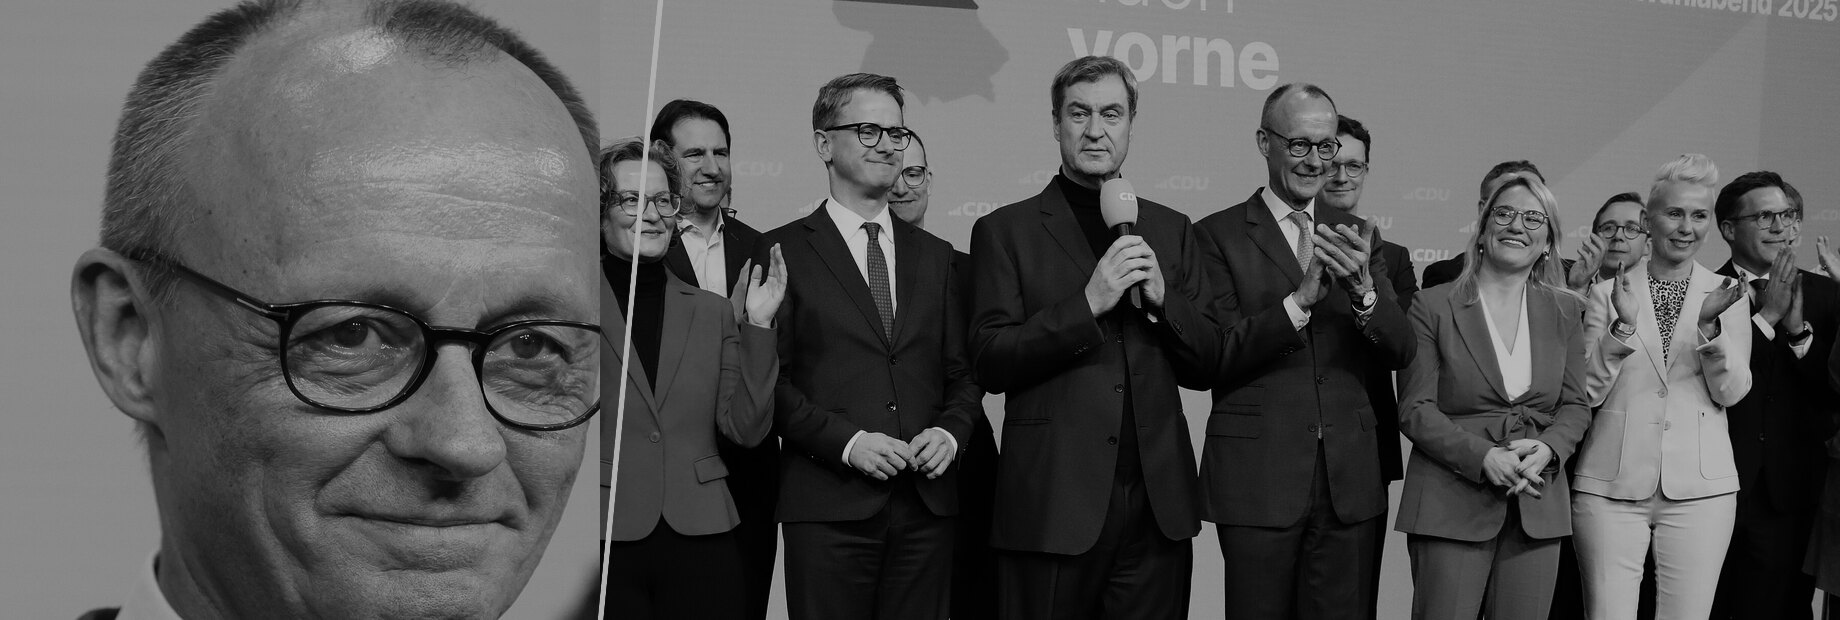
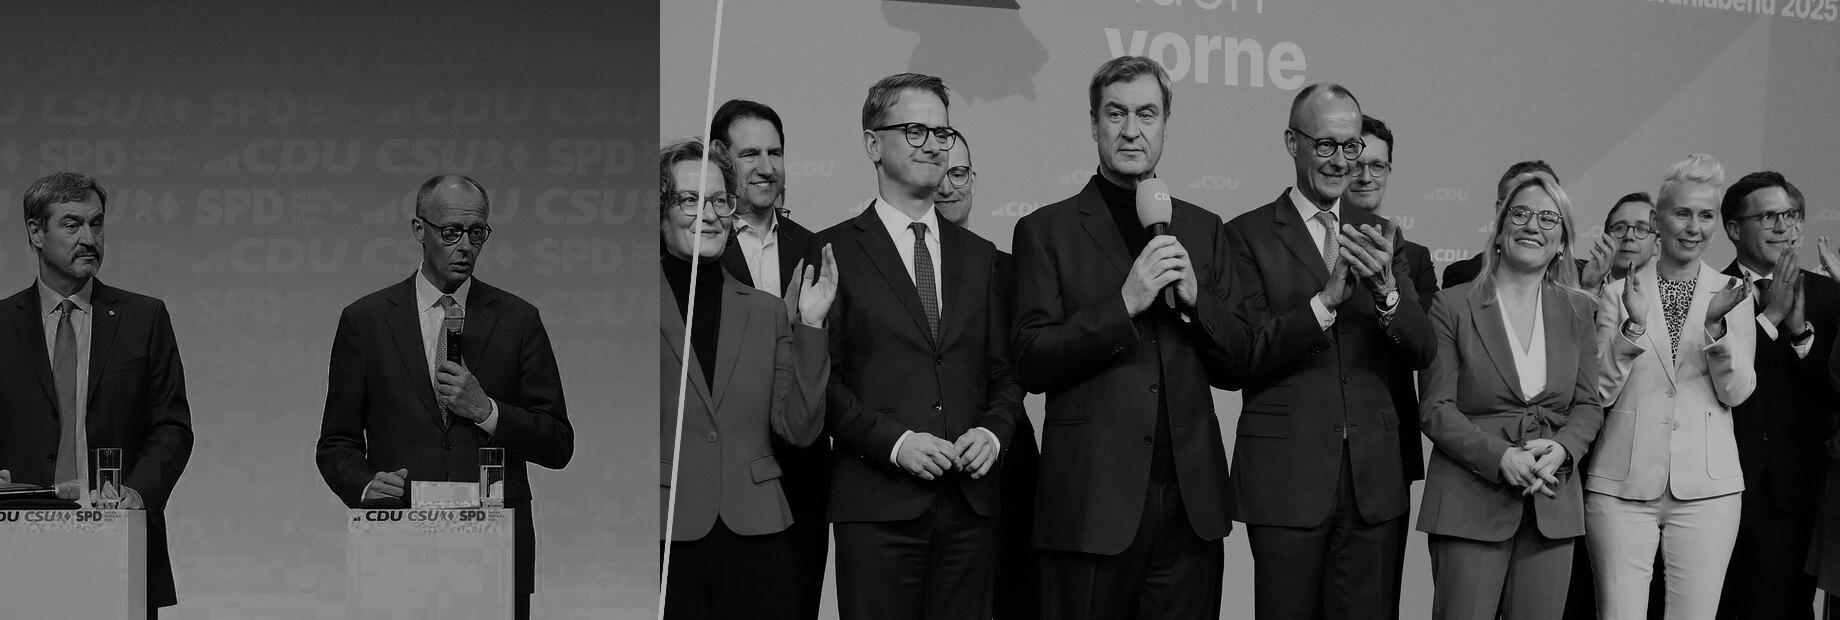
Union post: header montage with Merz at the lectern instead of close-up portrait

diff --git a/_pages/union-verluste-2026-de.md b/_pages/union-verluste-2026-de.md
@@ -24,7 +24,7 @@ Entwurf: Dieser Beitrag ist noch nicht veröffentlicht. Alle Texte sind Platzhal
 
 <figure class="ltw-header ltw-hero">
 
-<img src="/images/union26_header.jpg" style="object-position: left center" alt="Schwarz-weiß-Montage vom CDU-Wahlabend im Konrad-Adenauer-Haus am 23. Februar 2025: links Friedrich Merz im Porträt, rechts Markus Söder, Merz und weitere CDU-Politiker auf der Bühne"/>
+<img src="/images/union26_header.jpg" style="object-position: left center" alt="Schwarz-weiß-Montage: links Friedrich Merz und Markus Söder am Rednerpult bei der Vorstellung des Koalitionsvertrags im Mai 2025, rechts Söder, Merz und weitere CDU-Politiker auf der Bühne am Wahlabend im Februar 2025"/>
 
 <div class="ltw-hero-shade"></div>
 
@@ -38,7 +38,7 @@ Wohin die Union ihre Wähler verliert –<br>und wen sie zurückholen kann
 
 <p class="ltw-photo-credit">
 
-Fotos: Sandro Halank, Wikimedia Commons (<a href="https://commons.wikimedia.org/wiki/File:2025-02-23_Bundestagswahl_%E2%80%93_Wahlabend_CDU_by_Sandro_Halank%E2%80%93070.jpg">Porträt Friedrich Merz</a>, <a href="https://commons.wikimedia.org/wiki/File:2025-02-23_Bundestagswahl_%E2%80%93_Wahlabend_CDU_by_Sandro_Halank%E2%80%93013.jpg">Bühne</a>; <a href="https://creativecommons.org/licenses/by-sa/4.0/deed.de">CC BY-SA 4.0</a>, Montage aus zwei Fotos, zugeschnitten, schwarz-weiß) – CDU-Wahlabend im Konrad-Adenauer-Haus, 23. Februar 2025
+Fotos: links <a href="https://commons.wikimedia.org/wiki/File:2025-05-05_Unterzeichnung_des_Koalitionsvertrages_der_21._Wahlperiode_des_Bundestages_(Martin_Rulsch)_072.jpg">Martin Rulsch</a> (Vorstellung des Koalitionsvertrags, 5. Mai 2025), rechts <a href="https://commons.wikimedia.org/wiki/File:2025-02-23_Bundestagswahl_%E2%80%93_Wahlabend_CDU_by_Sandro_Halank%E2%80%93013.jpg">Sandro Halank</a> (CDU-Wahlabend im Konrad-Adenauer-Haus, 23. Februar 2025), beide Wikimedia Commons, <a href="https://creativecommons.org/licenses/by-sa/4.0/deed.de">CC BY-SA 4.0</a>; Montage, zugeschnitten, schwarz-weiß
 
 </p>
 
